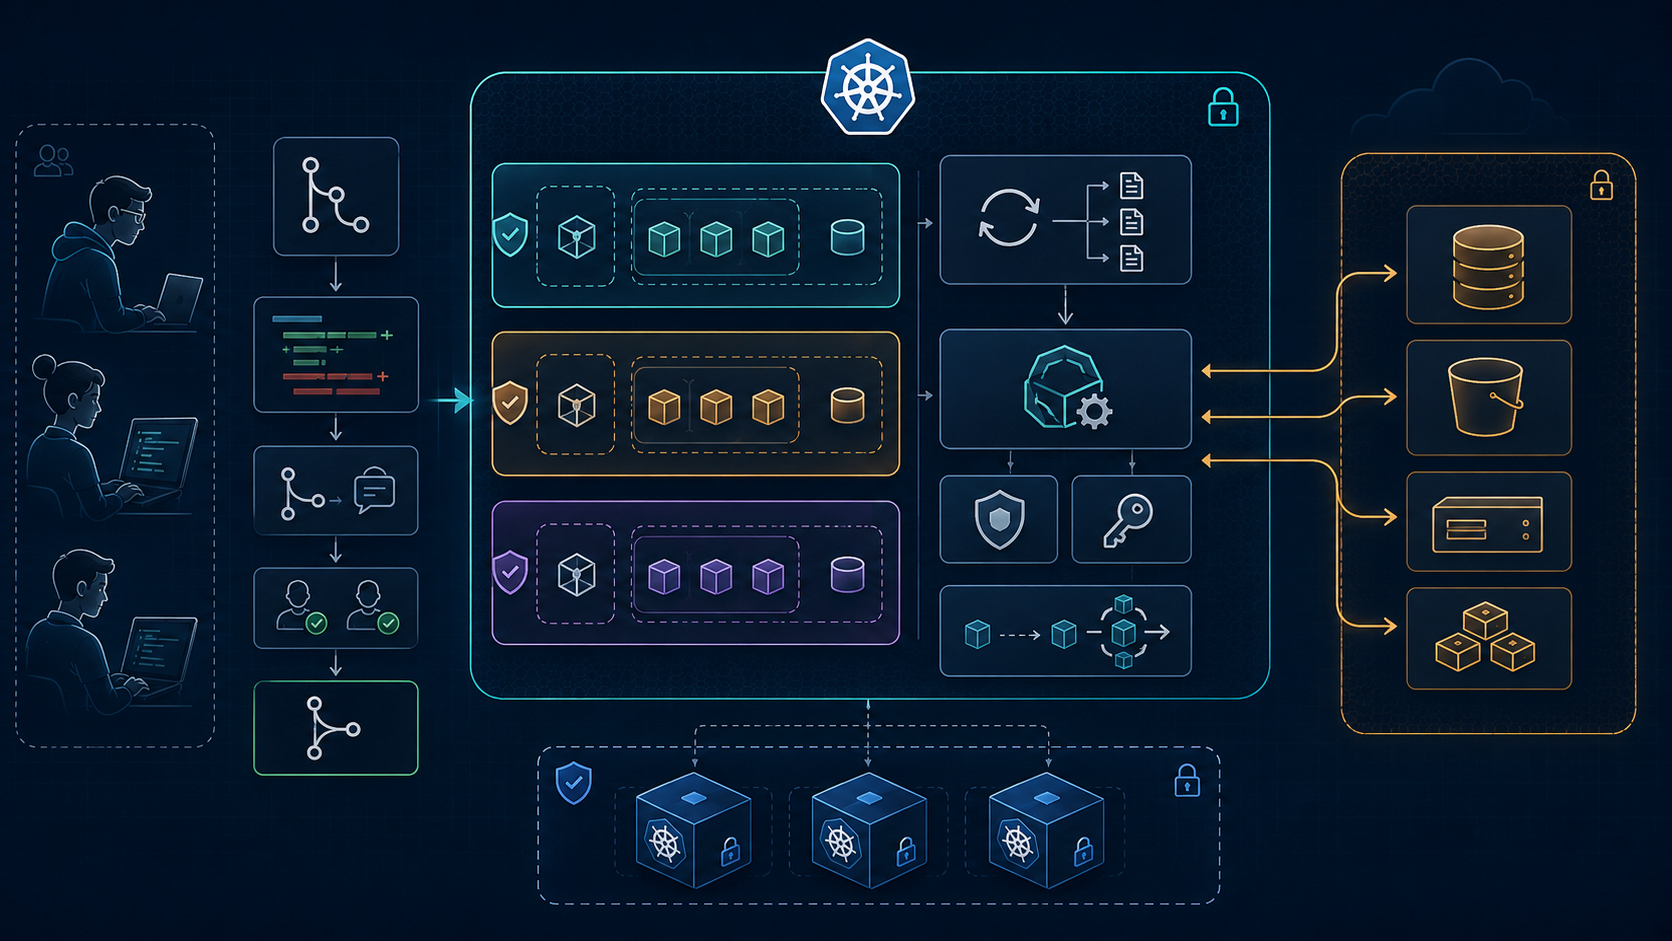
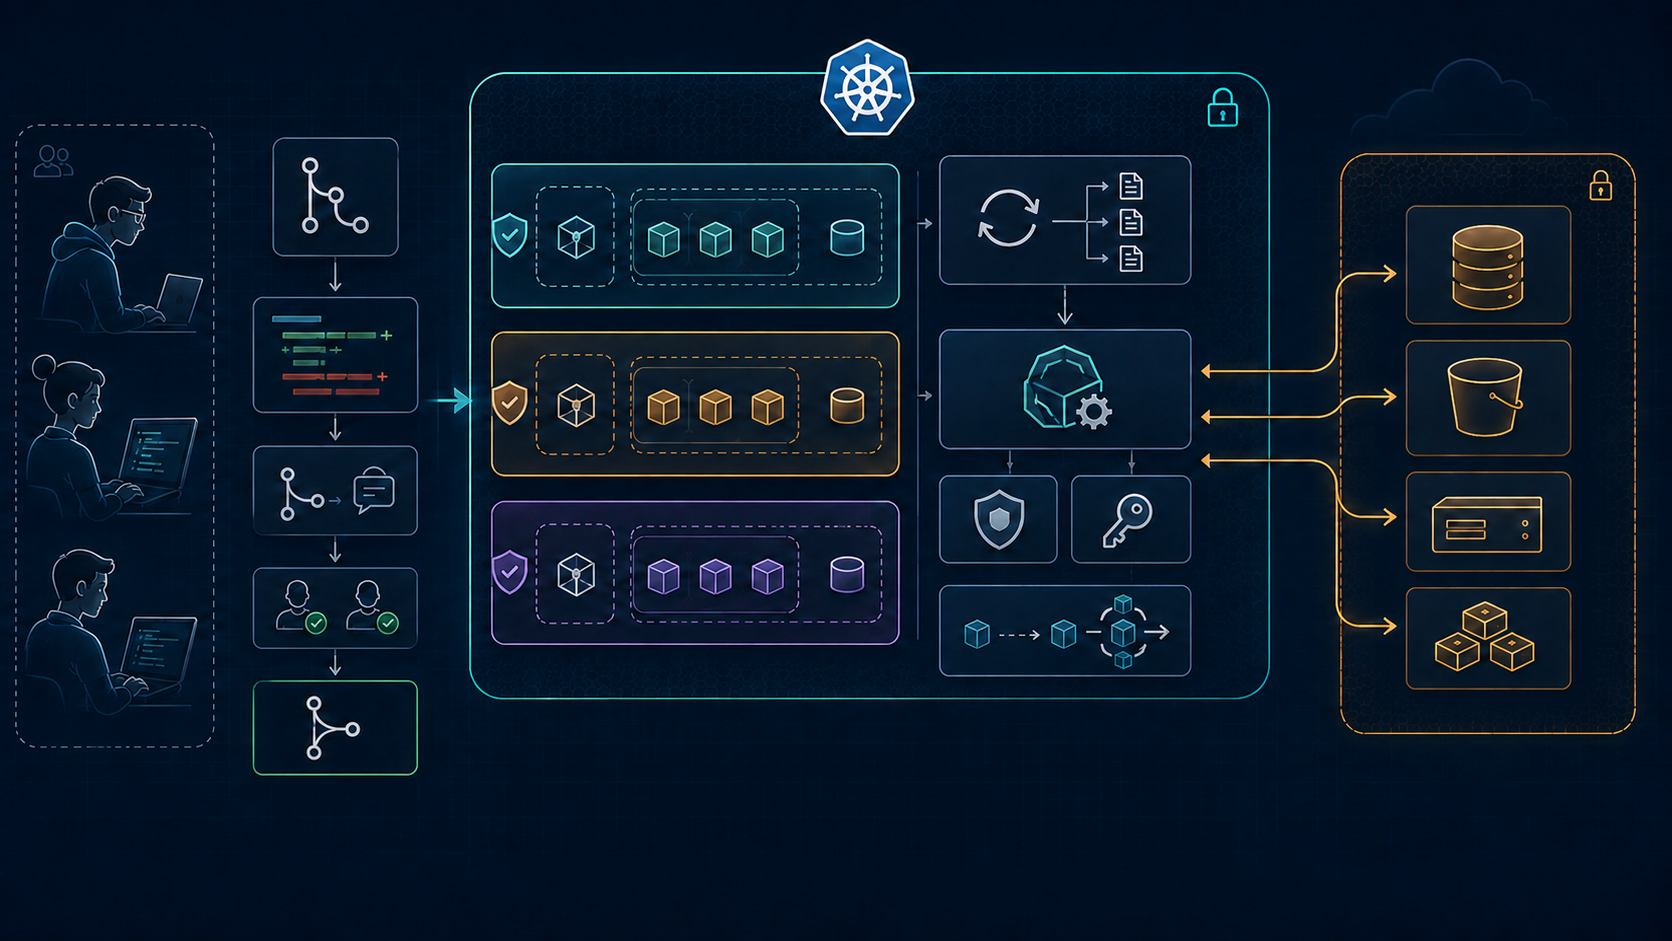
docs: document namespace-only tenant architecture

diff --git a/README.md b/README.md
@@ -25,7 +25,6 @@ An AWS EKS platform reference implementation built around reviewed Git changes, 
 - Four direct, namespaced Crossplane v2 APIs for S3, EC2, RDS PostgreSQL, and ElastiCache Redis.
 - GitHub Actions that build changed monorepo services, scan them with Trivy, push immutable ECR tags, and open a manifest-update pull request.
 - Backstage template definitions plus a lightweight, local, read-only catalog.
-- Optional vCluster profiles for teams that genuinely need a separate Kubernetes API.
 
 It does **not** currently provide a fully built Backstage application, a verified live cluster, automatic deployment for the standalone Node/Python template repositories, or a working external Ingress path.
 
@@ -41,7 +40,6 @@ It does **not** currently provide a fully built Backstage application, a verifie
 | GitHub Actions | Workflow implemented for `apps/<team>/<service>` | No workflow run verified for this revision |
 | Local catalog | Read-only server and UI; local HTTP smoke passed | Local only |
 | Backstage | Configuration, catalog entities, and templates only | Docker build is not self-contained |
-| vCluster | Optional; Helm render passes for all three teams | No virtual cluster installed in this review |
 | Monitoring | Values/dashboard files exist; separate Make target | No live Prometheus/Grafana/Kubecost evidence |
 | Kyverno | Legacy policy files retained | Bootstrap intentionally disables it |
 
@@ -81,7 +79,6 @@ flowchart LR
                 DATA[data-platform]
             end
 
-            VCL[Optional per-team vClusters]
         end
 
         CLOUD[S3, EC2, RDS and ElastiCache]
@@ -114,7 +111,6 @@ flowchart LR
     ECR --> TENANTS
     POLICY --> TENANTS
     KARP --> TENANTS
-    TENANTS -. explicit opt-in .-> VCL
 ```
 
 ### Terraform dependency flow
@@ -149,13 +145,30 @@ The backend bucket and DynamoDB lock table are assumed to exist; this repository
 
 ## Tenant model
 
-| Team | Native namespace | EKS groups | Argo CD project | Optional vCluster host namespace |
-|---|---|---|---|---|
-| Identity Platform | `identity-platform` | `idp:tenant:identity-platform:viewer/operator` | `identity-platform` | `vcluster-identity-platform` |
-| Platform Engineering | `platform-engineering` | `idp:tenant:platform-engineering:viewer/operator` | `platform-engineering` | `vcluster-platform-engineering` |
-| Data Platform | `data-platform` | `idp:tenant:data-platform:viewer/operator` | `data-platform` | `vcluster-data-platform` |
+| Team | Native namespace | EKS groups | Argo CD project |
+|---|---|---|---|
+| Identity Platform | `identity-platform` | `idp:tenant:identity-platform:viewer`<br>`idp:tenant:identity-platform:operator` | `identity-platform` |
+| Platform Engineering | `platform-engineering` | `idp:tenant:platform-engineering:viewer`<br>`idp:tenant:platform-engineering:operator` | `platform-engineering` |
+| Data Platform | `data-platform` | `idp:tenant:data-platform:viewer`<br>`idp:tenant:data-platform:operator` | `data-platform` |
 
-Native namespaces are the default isolation boundary. A viewer can inspect ordinary workload resources and logs inside its own namespace. An operator adds limited pod deletion and scale operations. Neither role is granted Secret access or RBAC mutation.
+Native namespaces are the only tenant isolation model implemented by this repository. A viewer can inspect ordinary workload resources and logs inside its own namespace. An operator adds limited pod deletion and scale operations. Neither role is granted Secret access or RBAC mutation.
+
+The access path is `IAM role -> EKS access entry -> Kubernetes group -> one or more namespaced RoleBindings`. Viewer groups bind to `idp-tenant-viewer`; operator groups bind to both `idp-tenant-viewer` and `idp-tenant-operator-actions`. The example variables use AWS IAM Identity Center roles, so a tenant user can authenticate with a matching local AWS CLI profile and verify both the intended access and the isolation boundary:
+
+```bash
+aws sso login --profile identity-platform-viewer
+aws eks update-kubeconfig \
+  --name idp-prod \
+  --region us-east-1 \
+  --profile identity-platform-viewer \
+  --alias idp-prod-identity-platform-viewer
+
+kubectl auth can-i get pods -n identity-platform       # expected: yes
+kubectl auth can-i get secrets -n identity-platform    # expected: no
+kubectl auth can-i get pods -n data-platform           # expected: no
+```
+
+Namespace-only tenancy keeps one control plane, one bootstrap path, and lower operating cost. The trade-off is a shared control-plane blast radius: tenants cannot choose an independent Kubernetes version or API server, and cluster-scoped CRDs or controllers remain platform-owned rather than tenant-owned.
 
 Each namespace receives:
 
@@ -269,7 +282,6 @@ These are implementation controls, not audit evidence. IAM behavior, admission b
 | Upbound AWS providers | `2.7.1` |
 | Function Python | `0.5.0` |
 | Argo CD Helm chart | `10.1.4` |
-| vCluster Helm chart | `0.36.1` |
 | Metrics Server chart | `3.13.1` |
 | VPC CNI | `v1.22.4-eksbuild.3` |
 | CoreDNS | `v1.14.3-eksbuild.14` |
@@ -309,8 +321,7 @@ External Secrets, Prometheus, and Kubecost chart versions are not pinned in the 
 │   │   └── local-catalog/
 │   ├── gitops/argocd/
 │   ├── observability/{prometheus,grafana,kubecost}/
-│   ├── security/{admission,kyverno-disabled}/
-│   └── vcluster/{base,host-namespaces,teams}/
+│   └── security/{admission,kyverno-disabled}/
 ├── tenants/
 │   ├── base/
 │   ├── namespaces/
@@ -338,7 +349,6 @@ make validate
 # Inspect the command graph without executing it.
 make -n cluster-up
 make -n tenant-up
-make -n vcluster-up TEAM=identity-platform
 
 # Run the read-only local catalog. PROJECTS_DIR must contain service
 # repositories with catalog-info.yaml at their top level.
@@ -369,12 +379,11 @@ The current revision was checked with:
 
 - Terraform formatting and validation for both roots.
 - YAML and JSON parsing across repository manifests.
-- Helm template rendering for vCluster `0.36.1` for all three teams.
 - rendered Golden Path checks for YAML, JavaScript, and Python.
 - JavaScript syntax checks for the local catalog.
 - local HTTP smoke tests for catalog, health, and claim-spec endpoints.
 - negative local tests confirming removed login/write endpoints return `404` and path traversal does not expose files.
-- Make dry-runs for tenant and optional-vCluster paths.
+- Make dry-runs for the cluster and tenant bootstrap paths.
 - reference searches for retired team names and portal capabilities.
 
 The EKS Terraform validation reports deprecation warnings from the downloaded `terraform-aws-modules/iam` dependency. They do not fail validation, but the module should be upgraded in a reviewed change.
@@ -397,7 +406,7 @@ The highest-priority gaps are:
 
 ## Destructive operations
 
-`make down`, `make infra-down`, and `make cluster-down` require the exact `CONFIRM_DESTROY=idp-prod` value. `cluster-down` does not explicitly delete tenant namespaces, and `vcluster-down` retains Helm history and PVCs. The full `make down` path still destroys the EKS infrastructure, so it is destructive to everything hosted on that cluster.
+`make down`, `make infra-down`, and `make cluster-down` require the exact `CONFIRM_DESTROY=idp-prod` value. `cluster-down` does not explicitly delete tenant namespaces. The full `make down` path still destroys the EKS infrastructure, so it is destructive to everything hosted on that cluster.
 
 Even with that guard, always inspect the active AWS account, kube-context, Terraform plan, backups, and rollback path before running a destructive command.
 

diff --git a/docs/operations/platform-hardening-plan.md b/docs/operations/platform-hardening-plan.md
@@ -1,6 +1,6 @@
 # خطة تقوية المنصة — الحالة الفعلية
 
-> آخر تحديث: 2 سبتمبر 2026
+> آخر تحديث: 4 سبتمبر 2026
 >
 > حالة البيئة: صاحب المشروع أكد أن المشروع **غير مشغّل حاليًا**. نتائج هذه الوثيقة مبنية على مراجعة الكود واختبارات ثابتة ومحلية، وليست إثباتًا أن AWS أو EKS أو Crossplane يعملون في بيئة حية.
 >
@@ -10,8 +10,7 @@
 
 الأساس الأمني والمعماري تحسن بالفعل:
 
-- vCluster أصبحت اختيارية وليست جزءًا من bootstrap الافتراضي.
-- Host EKS namespaces هي حدود الفرق الأساسية.
+- Host EKS namespaces هي حدود الفرق الوحيدة المنفذة في المستودع.
 - EKS access entries وKubernetes RBAC مفصولان بين platform admins والفرق.
 - Argo CD AppProjects أصبحت مقيدة بالـnamespace والأنواع المسموحة.
 - Pod Security Admission وValidatingAdmissionPolicy الأصليتان في Kubernetes هما طبقة enforcement الحالية.
@@ -42,18 +41,14 @@ AWS
 │   ├── crossplane-system
 │   ├── external-secrets
 │   └── monitoring (اختياري عبر target منفصل)
-├── Crossplane namespaced APIs
-│   ├── ObjectBucket       → S3 Bucket
-│   ├── ServerInstance     → EC2 + Security Group
-│   ├── PostgresSQLInstance→ RDS + subnet/security groups
-│   └── RedisInstance      → ElastiCache + subnet/security groups
-└── Optional vClusters
-    ├── vcluster-identity-platform
-    ├── vcluster-platform-engineering
-    └── vcluster-data-platform
+└── Crossplane namespaced APIs
+    ├── ObjectBucket       → S3 Bucket
+    ├── ServerInstance     → EC2 + Security Group
+    ├── PostgresSQLInstance→ RDS + subnet/security groups
+    └── RedisInstance      → ElastiCache + subnet/security groups
 ```
 
-المسار الطبيعي للفرق هو Host namespace. vCluster تُثبت فقط عبر `make vcluster-up TEAM=<approved-team>` عندما يكون هناك احتياج حقيقي إلى Kubernetes API معزولة.
+المسار المعتمد للفرق هو namespace داخل Host EKS، موصولة من IAM role إلى EKS Access Entry ثم Kubernetes group وRoleBinding داخل namespace. هذا يقلل تكلفة وتعقيد التشغيل، مقابل مشاركة الـcontrol plane والـcluster-scoped APIs بين الفرق تحت إدارة فريق المنصة.
 
 ## ما تم تنفيذه
 
@@ -62,9 +57,7 @@ AWS
 | Commit | النتيجة |
 |---|---|
 | `daf7b14` | منع teardown العادي من حذف tenant namespaces |
-| `a890e20` | إخراج vCluster من `cluster-up` وجعلها opt-in |
 | `0e4179d` | إضافة encrypted `gp3` StorageClass إلى bootstrap |
-| `242c8f5`, `00014f7` | تثبيت vCluster chart على `0.36.1` ومحاذاة القيم مع النسخة |
 | `5b6e326` | اشتراط `CONFIRM_DESTROY=idp-prod` قبل teardown |
 
 ### 2. EKS identities وTenant RBAC
@@ -127,14 +120,13 @@ AWS IAM role
 
 الـmanaged resources لا تحتوي `Delete` في `managementPolicies`. حذف claim لا يحذف مورد AWS تلقائيًا؛ هذا قرار حماية بيانات، لكنه يحتاج orphan inventory وrunbook للحذف المعتمد.
 
-### 6. vCluster الاختيارية وأسماء الفرق
+### 6. Tenant namespaces وأسماء الفرق
 
 | Commit | النتيجة |
 |---|---|
-| `ff3cc5d` | host namespaces منفصلة، quotas، limits، default-deny وcontrol-plane/workload policies |
-| `d1107a6` | أسماء الفرق الجديدة في Terraform وRBAC وArgo وCrossplane وBackstage وvCluster |
+| `d1107a6` | أسماء الفرق الجديدة في Terraform وRBAC وArgo وCrossplane وBackstage |
 
-كل vCluster تمثل trust boundary لفريق واحد. مزامنة tenant NetworkPolicies إلى الـhost متوقفة عمدًا لأن السياسات additive وقد توسع host boundary. الـhost policies هي المصدر الحاكم.
+كل فريق له namespace وEKS groups وRoleBindings وArgo CD project متطابقة الاسم. الـnamespace وRBAC وNetworkPolicy وadmission هي حدود العزل الحالية؛ لا يملك كل فريق API server أو control plane أو إصدار Kubernetes مستقلًا، وتظل الموارد والـcontrollers ذات النطاق cluster-wide مملوكة لفريق المنصة.
 
 ## نتائج التحقق الحالية
 
@@ -143,7 +135,6 @@ AWS IAM role
 - `terraform validate` للـnetwork root.
 - `terraform validate` للـEKS root؛ ظهرت فقط warnings من dependency خارجية تستخدم attribute deprecated.
 - `terraform fmt -check` للملفات التي تغيرت.
-- Helm render لـvCluster `0.36.1` للفرق الثلاثة.
 - parsing لملفات YAML/JSON غير القالبية.
 - render تجريبي للـGolden Paths ثم JavaScript/Python/YAML checks.
 - JavaScript syntax checks للـlocal catalog.
@@ -151,7 +142,7 @@ AWS IAM role
   - root وhealth وclaim specs أعادت `200`.
   - login القديم وwrite API أعادا `404`.
   - محاولة path traversal لم تكشف ملفًا.
-- `make -n` لمسارات tenant وvCluster.
+- `make -n` لمسارات cluster وtenant.
 - بحث شامل عن أسماء الفرق القديمة؛ بقي اسم واحد مقصود داخل ECR image URI القديمة.
 
 لم يُشغّل:
@@ -265,7 +256,7 @@ AWS IAM role
 
 #### 11. Helm dependencies غير مثبتة كلها
 
-Argo CD وvCluster وCrossplane وMetrics Server مثبتة النسخ. External Secrets وPrometheus/Kubecost targets لا تحدد chart versions.
+Argo CD وCrossplane وMetrics Server مثبتة النسخ. External Secrets وPrometheus/Kubecost targets لا تحدد chart versions.
 
 **المستهدف:** version pins، values مراجعة، `--atomic --wait`، readiness، وسياسة تحديث دورية.
 
@@ -297,11 +288,7 @@ Argo CD وvCluster وCrossplane وMetrics Server مثبتة النسخ. External
 
 `make kyverno-up` يفشل عمدًا. يجب إما اعتماد نسخة متوافقة واختبارها، أو حذف الملفات القديمة بعد نقل أي سياسات لازمة إلى native admission/GitOps checks.
 
-#### 17. Optional vCluster تحتاج live boundary tests
-
-نختبر DNS وAPI وstorage والـcontrol-plane traffic والـworkload egress لكل فريق، ونتأكد أن سياسات host لا تُفتح بسبب أي sync option.
-
-#### 18. Orphaned cloud resources تحتاج lifecycle runbook
+#### 17. Orphaned cloud resources تحتاج lifecycle runbook
 
 حماية الموارد من delete مفيدة، لكن يجب وجود:
 
@@ -354,7 +341,6 @@ Argo CD وvCluster وCrossplane وMetrics Server مثبتة النسخ. External
 - [ ] pin ESO/monitoring dependencies.
 - [ ] alerts وSLOs وrunbooks وbackup/restore drill.
 - [ ] قرار Backstage الحقيقي.
-- [ ] اختبار vCluster فقط إن وُجد use case.
 
 ### المرحلة G — إعادة هيكلة المجلدات
 

diff --git a/docs/operations/repository-restructure-plan.md b/docs/operations/repository-restructure-plan.md
@@ -3,6 +3,8 @@
 > الحالة: **مكتملة ثابتًا في 3 سبتمبر 2026.** لم تُشغّل أي عملية على AWS أو Kubernetes، وما زال `terraform plan` الحي gate منفصلة إذا ظهرت بيئة حقيقية.
 >
 > الهدف: جعل حدود Terraform وKubernetes وGitOps والـDeveloper Experience واضحة، بدون تغيير سلوك المنصة أو كسر Terraform state أو مسارات Argo CD وCI.
+>
+> تحديث 4 سبتمبر 2026: أصبحت معمارية الفرق namespace-only، وحُدثت خريطة المستودع وعقود الاختبار لتعكس المسار الحالي.
 
 ## القرار الأساسي
 
@@ -57,10 +59,9 @@
 │   │   ├── prometheus/
 │   │   ├── grafana/
 │   │   └── kubecost/
-│   ├── security/
-│   │   ├── admission/
-│   │   └── kyverno-disabled/
-│   └── vcluster/
+│   └── security/
+│       ├── admission/
+│       └── kyverno-disabled/
 ├── tenants/
 │   ├── base/
 │   ├── namespaces/
@@ -114,7 +115,6 @@
 | GitHub Actions | `apps/<team>/<service>` و`deployment.yaml` |
 | Backstage DB template | يكتب claim داخل watched claims path |
 | Make tenant bootstrap | `tenants/namespaces` و`tenants/base` و`tenants/rbac/bindings/<team>.yaml` |
-| Optional vCluster | ملف host namespace وملف values بالاسم نفسه لكل فريق |
 | Crossplane bootstrap | packages ثم definitions ثم compositions، بهذا الترتيب |
 | Terraform EKS root | يقرأ network remote state من نفس bucket/key |
 
@@ -139,12 +139,10 @@ YAML/JSON parse لكل manifests
 terraform fmt -check  # roots المنقولة؛ فحص modules الكامل مسجل منفصلًا
 terraform init -backend=false && terraform validate  # لكل root
 make -n tenant-up
-make -n vcluster-up TEAM=identity-platform
 make -n crossplane-config
 make -n argocd-up
 node --check للـlocal catalog
 Backstage template render بقيم اختبارية
-Helm render للـvCluster لكل الفرق الثلاثة
 ```
 
 الفحوص التي تحتاج cluster أو AWS لا تُعتبر ناجحة بمجرد نجاح الاختبار الثابت. نسجلها كـ`not run` حتى تتوفر بيئة اختبار مصرح بها.
@@ -174,5 +172,5 @@ Helm render للـvCluster لكل الفرق الثلاثة
 - حُذفت المجلدات المحلية الفارغة القديمة، بدون لمس `.terraform` cache أو ملفات المستخدم.
 - `terraform.md` و`issus.md` بقيا untracked ولم يدخلا أي commit.
 - نجح `terraform validate` للـnetwork والـEKS roots، ونجح `fmt -check` للـroots المنقولة. الفحص recursive الكامل ما زال يعرض formatting قديمًا في `modules/network/vpc.tf` لم نخلطه مع نقل المسارات.
-- نجح parsing لـ71 ملف YAML و10 ملفات JSON، وفحوص Bash/Node، وكل Make dry-runs، وHelm render لـvCluster للفرق الثلاثة (924 سطرًا).
+- نجح parsing لـ64 ملف YAML و6 ملفات JSON، وفحوص Bash/Node، وMake dry-runs لمسارات cluster وtenant وCrossplane وArgo CD.
 - لم يُنفذ `terraform plan` على remote backend ولم يحدث أي اتصال تغييري بـAWS/EKS.
